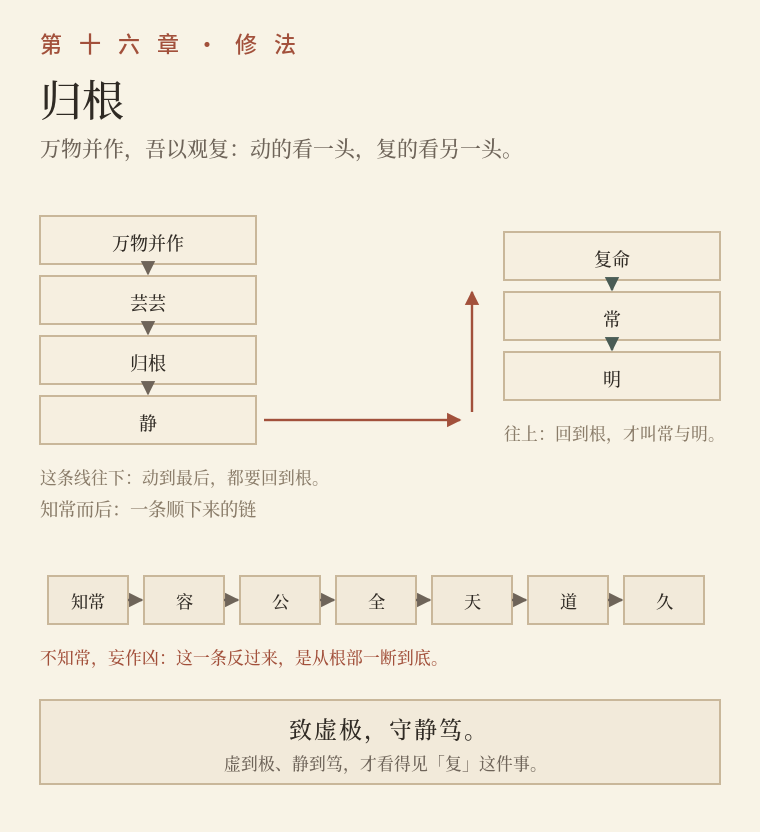
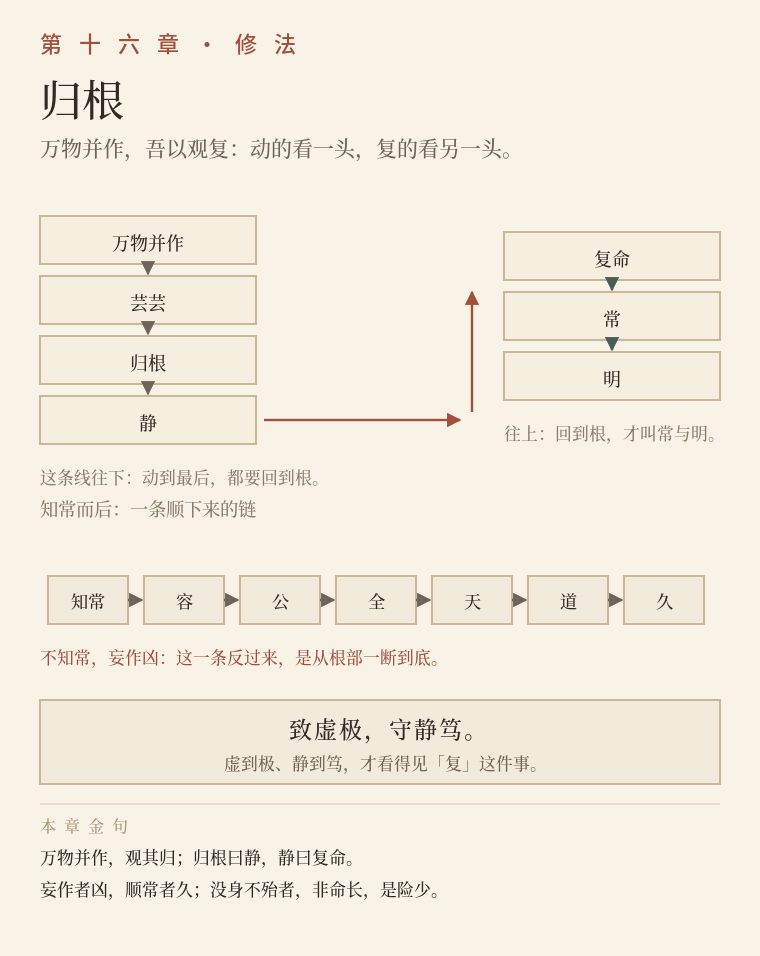
2.5.1 十二至二十一章图底加本章金句；十三章改杯壁、二十一章改道流与路标

diff --git a/tools/make_yili_svg.py b/tools/make_yili_svg.py
@@ -1105,7 +1105,7 @@ def ch10_bao_yi():
 
 # ============ 第十二章 · 五色令人目盲 ============
 def ch12_wu_se():
-    W, H = 380, 410
+    W, H = 380, 472
     body, y = head(W, H, "门不是要封死，是接法要自己管", "第 十 二 章 · 受 体", "门开五处",
                    "受于身，不如治于身：物自己来，怎么接是我。", H)
     s = [body]
@@ -1135,44 +1135,48 @@ def ch12_wu_se():
     s.append(box(20, yc, 340, 42, fill="#F2EADA", stroke="#C9B79A"))
     s.append(txt(190, yc + 19, "为腹不为目：去彼取此。", 11.5, INK, "middle", spacing="1"))
     s.append(txt(190, yc + 35, "不是不要眼耳，是不把人生的重心交给外面。", 8.4, "#6E6459", "middle"))
+    s.append(gold(yc + 52, "ch12"))
     s.append('</svg>')
     return "\n".join(s)
 
 
 # ============ 第十三章 · 宠辱若惊 ============
 def ch13_chong_ru():
-    W, H = 380, 336
-    body, y = head(W, H, "惊的不是宠辱，是那个被交出去的「我」", "第 十 三 章 · 荣 辱", "惊的是我",
+    W, H = 380, 442
+    body, y = head(W, H, "惊的不是宠辱，是那个钉在壁上的我", "第 十 三 章 · 荣 辱", "惊的是我",
                    "宠辱本身没有力气；力气是把自己交出去那一刻给的。", H)
     s = [body]
-    yy = y + 20
-    s.append(box(140, yy, 100, 34, fill="#F6EFE0", stroke="#C9B79A"))
-    s.append(txt(190, yy + 22, "我", 13, INK, "middle", spacing="2"))
-    s.append(txt(34, yy + 22, "宠", 13, GREEN, "middle", spacing="1"))
-    s.append(txt(346, yy + 22, "辱", 13, SEAL, "middle", spacing="1"))
-    s.append(arrow(52, yy + 17, 134, yy + 17, color="#4A5C55", head="arr2"))
-    s.append(arrow(328, yy + 17, 248, yy + 17, color="#A2503B", head="arrS"))
-    s.append(txt(58, yy - 6, "得之若惊", 8.2, "#6E6459"))
-    s.append(txt(322, yy - 6, "失之若惊", 8.2, "#6E6459", "end"))
-    s.append(txt(190, yy + 52, "宠为下：一求它，就把自己放在下位", 8.6, "#8A7C69", "middle"))
-    # 大患
-    y2 = yy + 74
-    s.append(txt(20, y2, "贵大患若身：患的落脚处，是一个「身」", 9.2, "#8A7C69"))
-    y3 = y2 + 14
-    s.append(box(20, y3, 340, 44, fill="#F6EFE0", stroke="#C9B79A"))
-    s.append(txt(190, y3 + 19, "吾所以有大患者，为吾有身；及吾无身，吾有何患？", 8.8, INK, "middle"))
-    s.append(txt(190, y3 + 35, "无身不是弃身：是松开那个钉在边界上的我。", 8.4, "#6E6459", "middle"))
-    yc = y3 + 62
+    cy = y + 66
+    cx = 190
+    # 俯视杯：外壁＝我，内腔＝空
+    s.append(f'<circle cx="{cx}" cy="{cy}" r="56" fill="#E9DCC4" stroke="{LINE}" stroke-width="1"/>')
+    s.append(f'<circle cx="{cx}" cy="{cy}" r="37" fill="{PAPER}" stroke="{LINE}" stroke-width="1"/>')
+    s.append(txt(cx, cy + 4, "空", 8.6, "#8A7C69", "middle"))
+    s.append(txt(cx, cy - 62, "壁＝我", 8.4, SEAL, "middle"))
+    s.append(arrow(56, cy, cx - 62, cy, color="#4A5C55", head="arr2"))
+    s.append(arrow(324, cy, cx + 62, cy, color="#A2503B", head="arrS"))
+    s.append(txt(58, cy - 24, "得之若惊", 8.2, "#6E6459"))
+    s.append(txt(322, cy - 24, "失之若惊", 8.2, "#6E6459", "end"))
+    s.append(txt(58, cy + 40, "宠", 13, GREEN, "middle", spacing="1"))
+    s.append(txt(322, cy + 40, "辱", 13, SEAL, "middle", spacing="1"))
+    s.append(txt(cx, cy + 78, "宠为下：一求它，就把自己放在下位。", 8.6, "#8A7C69", "middle"))
+    y2 = cy + 96
+    s.append(box(20, y2, 340, 46, fill="#F6EFE0", stroke="#C9B79A"))
+    s.append(txt(190, y2 + 19, "吾所以有大患者，为吾有身；及吾无身，吾有何患？", 8.8, INK, "middle"))
+    s.append(txt(190, y2 + 35, "无身不是把壁拆了，是不把自己钉在壁上。", 8.4, "#6E6459", "middle"))
+    yc = y2 + 64
     s.append(box(20, yc, 340, 44, fill="#F2EADA", stroke="#C9B79A"))
     s.append(txt(190, yc + 20, "贵以身为天下，若可寄天下。", 11, INK, "middle", spacing="1"))
     s.append(txt(190, yc + 36, "先把自己看重，别人才敢把事托给你——不是相反。", 8.4, "#6E6459", "middle"))
+    s.append(gold(yc + 52, "ch13"))
     s.append('</svg>')
     return "\n".join(s)
 
 
+
 # ============ 第十四章 · 视之不见 ============
 def ch14_yi_xi_wei():
-    W, H = 380, 356
+    W, H = 380, 418
     body, y = head(W, H, "把「看得见才算有」降回局部工具", "第 十 四 章 · 道 体", "三样工具探不到",
                    "探不到不等于没有；探得到也不等于全部。", H)
     s = [body]
@@ -1198,13 +1202,14 @@ def ch14_yi_xi_wei():
     s.append(box(20, yc, 340, 44, fill="#F2EADA", stroke="#C9B79A"))
     s.append(txt(190, yc + 19, "执古之道，以御今之有。", 10.5, INK, "middle", spacing="1"))
     s.append(txt(190, yc + 35, "能知古始，是谓道纪：不是复古，是拿源流来看眼前。", 8.4, "#6E6459", "middle"))
+    s.append(gold(yc + 52, "ch14"))
     s.append('</svg>')
     return "\n".join(s)
 
 
 # ============ 第十五章 · 古之善为道者 ============
 def ch15_shan_wei_dao():
-    W, H = 380, 398
+    W, H = 380, 460
     body, y = head(W, H, "七喻不是七种美德，是七种「不」", "第 十 五 章 · 体 道", "七个比喻",
                    "微妙玄通，深不可识：认不出，是因为他不把自己摆出来。", H)
     s = [body]
@@ -1236,13 +1241,14 @@ def ch15_shan_wei_dao():
     s.append(box(20, yc, 340, 42, fill="#F2EADA", stroke="#C9B79A"))
     s.append(txt(190, yc + 19, "不欲盈：夫唯不盈，故能蔽而新成。", 10.5, INK, "middle", spacing="1"))
     s.append(txt(190, yc + 35, "不装满，旧样子才换得成新样子。", 8.4, "#6E6459", "middle"))
+    s.append(gold(yc + 52, "ch15"))
     s.append('</svg>')
     return "\n".join(s)
 
 
 # ============ 第十六章 · 致虚极，守静笃 ============
 def ch16_zhi_xu_ji():
-    W, H = 380, 416
+    W, H = 380, 478
     body, y = head(W, H, "观不是往外看，是看它回到哪里", "第 十 六 章 · 修 法", "归根",
                    "万物并作，吾以观复：动的看一头，复的看另一头。", H)
     s = [body]
@@ -1282,6 +1288,7 @@ def ch16_zhi_xu_ji():
     s.append(box(20, yc, 340, 42, fill="#F2EADA", stroke="#C9B79A"))
     s.append(txt(190, yc + 19, "致虚极，守静笃。", 11.5, INK, "middle", spacing="1"))
     s.append(txt(190, yc + 35, "虚到极、静到笃，才看得见「复」这件事。", 8.4, "#6E6459", "middle"))
+    s.append(gold(yc + 52, "ch16"))
     s.append('</svg>')
     return "\n".join(s)
 
@@ -1289,7 +1296,7 @@ def ch16_zhi_xu_ji():
 
 # ============ 第十七章 · 太上，下知有之 ============
 def ch17_tai_shang():
-    W, H = 380, 370
+    W, H = 380, 432
     body, y = head(W, H, "四级不是四种人，是同一件事的四次退化", "第 十 七 章 · 治 道", "四级台阶",
                    "从上往下：不必被感念 → 要被感念 → 只能被怕 → 连怕也不怕。", H)
     s = [body]
@@ -1312,13 +1319,14 @@ def ch17_tai_shang():
     s.append(box(20, yc, 340, 48, fill="#F2EADA", stroke="#C9B79A"))
     s.append(txt(190, yc + 20, "功成事遂，百姓皆谓：我自然。", 10.8, INK, "middle", spacing="1"))
     s.append(txt(190, yc + 37, "最好的治理，是做完之后没人把它记在谁头上。", 8.4, "#6E6459", "middle"))
+    s.append(gold(yc + 52, "ch17"))
     s.append('</svg>')
     return "\n".join(s)
 
 
 # ============ 第十八章 · 大道废，有仁义 ============
 def ch18_da_dao_fei():
-    W, H = 380, 402
+    W, H = 380, 464
     body, y = head(W, H, "先有缺口，才有那个被举起来的名字", "第 十 八 章 · 世 相", "四对因果",
                    "四句同一个句式：先废，才有一个被标举的名字。", H)
     s = [body]
@@ -1343,13 +1351,14 @@ def ch18_da_dao_fei():
     s.append(box(20, yc, 340, 40, fill="#F2EADA", stroke="#C9B79A"))
     s.append(txt(190, yc + 18, "大道废，有仁义。", 11, INK, "middle", spacing="1"))
     s.append(txt(190, yc + 34, "不是骂仁义：是给仁义记一笔来处。", 8.4, "#6E6459", "middle"))
+    s.append(gold(yc + 52, "ch18"))
     s.append('</svg>')
     return "\n".join(s)
 
 
 # ============ 第十九章 · 绝圣弃智 ============
 def ch19_jue_sheng():
-    W, H = 380, 380
+    W, H = 380, 442
     body, y = head(W, H, "不是把好东西扔掉，是把它从被标举的位置上撤下来", "第 十 九 章 · 减 法", "三绝三弃",
                    "上一章是诊断，这一章是方子。", H)
     s = [body]
@@ -1380,13 +1389,14 @@ def ch19_jue_sheng():
     s.append(box(20, yc, 340, 40, fill="#F2EADA", stroke="#C9B79A"))
     s.append(txt(190, yc + 18, "绝圣弃智，民利百倍。", 10.8, INK, "middle", spacing="1"))
     s.append(txt(190, yc + 34, "撤的是位置，不是东西。", 8.4, "#6E6459", "middle"))
+    s.append(gold(yc + 52, "ch19"))
     s.append('</svg>')
     return "\n".join(s)
 
 
 # ============ 第二十章 · 唯之与阿 ============
 def ch20_wei_zhi_yu_e():
-    W, H = 380, 446
+    W, H = 380, 508
     body, y = head(W, H, "尺子一换，答案就换", "第 二 十 章 · 独 异", "两把尺子",
                    "唯之与阿、善之与恶，相去几何？", H)
     s = [body]
@@ -1416,42 +1426,84 @@ def ch20_wei_zhi_yu_e():
     s.append(box(20, yc, 340, 44, fill="#F2EADA", stroke="#C9B79A"))
     s.append(txt(190, yc + 20, "贵食母。", 11, INK, "middle", spacing="1"))
     s.append(txt(190, yc + 37, "众人有恃，我独有所养：养的是那个母，不是那套尺。", 8.2, "#6E6459", "middle"))
+    s.append(gold(yc + 52, "ch20"))
     s.append('</svg>')
     return "\n".join(s)
 
 
 # ============ 第二十一章 · 孔德之容 ============
 def ch21_kong_de():
-    W, H = 380, 436
-    body, y = head(W, H, "恍惚不是玄，是还没成形就说成形必失真", "第 二 十 一 章 · 道 之 为 物", "由粗到细",
-                   "惚兮恍兮其中有象；窈兮冥兮其中有精。", H)
+    W, H = 380, 512
+    body, y = head(W, H, "德不是修出来的，是流出来的", "第 二 十 一 章 · 道 之 为 物", "孔德之容",
+                   "道不抓取时是道；被我们抓取时，才成恍兮惚兮。", H)
     s = [body]
-    y0 = y + 16
-    s.append(box(20, y0, 340, 32, fill="#F6EFE0", stroke="#C9B79A", dash="4 3"))
-    s.append(txt(190, y0 + 21, "惚兮恍兮：不是一个清楚的东西，是一团还没定形的", 8.4, "#6E6459", "middle"))
+    # 道 → 德
+    y0 = y + 4
+    s.append(box(60, y0, 56, 26, fill="#F2EADA", stroke="#C9B79A"))
+    s.append(txt(88, y0 + 17, "道", 10, INK, "middle", spacing="1"))
+    s.append(arrow(120, y0 + 13, 196, y0 + 13, color="#A2503B", head="arrS"))
+    s.append(txt(158, y0 + 9, "流", 8.2, SEAL, "middle"))
+    s.append(box(200, y0, 120, 26, fill="#F2EADA", stroke="#C9B79A"))
+    s.append(txt(260, y0 + 17, "德：容", 9.6, INK, "middle", spacing="1"))
+    s.append(txt(20, y0 + 42, "德不是自己长成一套，是道流过它，它才有样子。", 8.4, "#8A7C69"))
+    # 恍惚四层
+    y1 = y0 + 56
+    s.append(box(20, y1, 340, 28, fill="#F6EFE0", stroke="#C9B79A", dash="4 3"))
+    s.append(txt(190, y1 + 18, "惚兮恍兮：不是它模糊，是抓取时只剩一个轮廓", 8.2, "#6E6459", "middle"))
     rows = [("象", "其中有个模糊的样子"),
             ("物", "那样子里，有东西"),
-            ("精", "那东西里，有极细的质"),
+            ("精", "东西里有极细的质"),
             ("信", "这质可验、不骗人")]
-    y1 = y0 + 46
+    y2 = y1 + 36
     for i, (a, b) in enumerate(rows):
-        yy = y1 + i * 34
-        s.append(txt(40, yy + 16, a, 13, SEAL if i < 2 else GREEN))
-        s.append(txt(76, yy + 16, b, 8.8, "#6E6459"))
+        yy = y2 + i * 30
+        s.append(txt(40, yy + 15, a, 12.5, SEAL if i < 2 else GREEN))
+        s.append(txt(74, yy + 15, b, 8.6, "#6E6459"))
         if i:
-            s.append(arrow(52, yy - 8, 52, yy - 1, color="#C9B79A", head="arr"))
-    s.append(f'<line x1="30" y1="{y1-6}" x2="30" y2="{y1+3*34+18}" stroke="{LINE2}" stroke-width="1"/>')
-    s.append(txt(20, y1 + 4 * 34 + 2, "越往里越细，但每一层都是真的：不是越玄越空。", 8.6, "#8A7C69"))
-    y2 = y1 + 4 * 34 + 18
-    s.append(box(20, y2, 340, 46, fill="#F6EFE0", stroke="#C9B79A"))
-    s.append(txt(190, y2 + 18, "孔德之容，惟道是从。", 10, INK, "middle", spacing="1"))
-    s.append(txt(190, y2 + 34, "德的样子，只是跟着道走；不是自己长成一套。", 8.4, "#6E6459", "middle"))
-    yc = y2 + 64
-    s.append(box(20, yc, 340, 42, fill="#F2EADA", stroke="#C9B79A"))
-    s.append(txt(190, yc + 19, "自今及古，其名不去，以阅众甫。", 10, INK, "middle", spacing="1"))
-    s.append(txt(190, yc + 35, "往回看不是怀旧：是拿这条不断的名，看清万物怎么起头。", 8.2, "#6E6459", "middle"))
+            s.append(arrow(52, yy - 6, 52, yy + 1, color="#C9B79A", head="arr"))
+    s.append(f'<line x1="30" y1="{y2-6}" x2="30" y2="{y2+3*30+16}" stroke="{LINE2}" stroke-width="1"/>')
+    s.append(txt(20, y2 + 4 * 30 + 8, "越往里越细，但每一层都是真的：不是越玄越空。", 8.4, "#8A7C69"))
+    # 路标
+    y3 = y2 + 4 * 30 + 28
+    s.append(txt(20, y3, "名：一条一直立在那里的路标", 9, "#8A7C69"))
+    yy = y3 + 36
+    s.append(f'<line x1="30" y1="{yy}" x2="352" y2="{yy}" stroke="{LINE2}" stroke-width="1"/>')
+    for i in range(3):
+        xx = 70 + i * 110
+        s.append(f'<line x1="{xx}" y1="{yy}" x2="{xx}" y2="{yy-14}" stroke="{LINE}" stroke-width="1"/>')
+        s.append(box(xx - 16, yy - 27, 32, 13, fill="#F2EADA", stroke="#C9B79A"))
+        s.append(txt(xx, yy - 17, "名", 7.6, SEAL, "middle"))
+    s.append(txt(30, yy + 18, "路标一直在（其名不去）；但路标不是那个地方。", 8.4, "#6E6459"))
+    yc = yy + 34
+    s.append(box(20, yc, 340, 40, fill="#F2EADA", stroke="#C9B79A"))
+    s.append(txt(190, yc + 18, "自今及古，其名不去，以阅众甫。", 10, INK, "middle", spacing="1"))
+    s.append(txt(190, yc + 33, "往回看不是怀旧：是拿这条不断的名，看清万物怎么起头。", 8.0, "#6E6459", "middle"))
+    s.append(gold(yc + 48, "ch21"))
     s.append('</svg>')
     return "\n".join(s)
+
+
+
+GOLD = {
+    "ch12": ["五色不盲人，逐色者自盲；五音不聋人，溺音者自聋。", "去彼取此，去的是执，取的是定。"],
+    "ch13": ["杯壁承一气，珍重莫轻伤；不缚荣辱相，中空纳天光。", "壁不可碎，执壁为我才碎；养身如养器，护壁不据壁。"],
+    "ch14": ["视之不见非无，是目不及；听之不闻非寂，是耳不及。", "执古御今，不是驭世，是安己。"],
+    "ch15": ["盈则封，封则死；不盈则虚，虚则生。", "浊不须搅，静之自清；根不须催，安之自生。"],
+    "ch16": ["万物并作，观其归；归根曰静，静曰复命。", "妄作者凶，顺常者久；没身不殆者，非命长，是险少。"],
+    "ch17": ["贵言者，非不言，是不以言夺人之自性。", "功成事遂，百姓曰「我自然」——此谓善治。"],
+    "ch18": ["药能已病，药不是身子。", "凡被标举者，皆是缺口的形状。"],
+    "ch19": ["所绝者名，所复者实；文不足以为治，令有所属乃安。", "破其外饰，守其本根；破而不立，台面自有人填。"],
+    "ch20": ["唯之与阿，相去几何——尺子定的，不是事定的。", "众人贵末，我贵食母；末可争，母不可争。"],
+    "ch21": ["孔德之容，惟道是从：德不是修出来的，是流出来的。", "名不去，是路标一直在；路标在，不等于路标就是那个地方。"],
+}
+
+
+def gold(y, key):
+    out = [f'<line x1="20" y1="{y}" x2="360" y2="{y}" stroke="{LINE2}" stroke-width="0.8"/>']
+    out.append(txt(20, y + 14, "本 章 金 句", 8.0, "#A89577", spacing="1"))
+    for i, l in enumerate(GOLD[key]):
+        out.append(txt(20, y + 14 + (i + 1) * 16, l, 8.4, INK))
+    return "\n".join(out)
 
 
 FIGS = {

diff --git a/book/义理图-体例.md b/book/义理图-体例.md
@@ -113,3 +113,11 @@
 - 图上不出现两义；
 - 380 宽、字号不小于 9.5、无外链、无位图；
 - 与正文用词一致（无、有、妙、徼、玄、反、损、啬等，一律照书内用法，不另造译名）。
+
+---
+
+## 本批新增：图必带本章金句
+
+十二至二十一章起，每图底部加一条细线与「本 章 金 句」标签，直接取 `book/道可道·道德经心法读本（全本）.md` 该章正文区「本章金句」原句，不改字、不并句；一图两行，只取最贴合图形结构的两句。
+
+金句取自原书，图取自结构：图是骨架，金句是嗓音，二者必须同章同义；不另行撰写警句。
